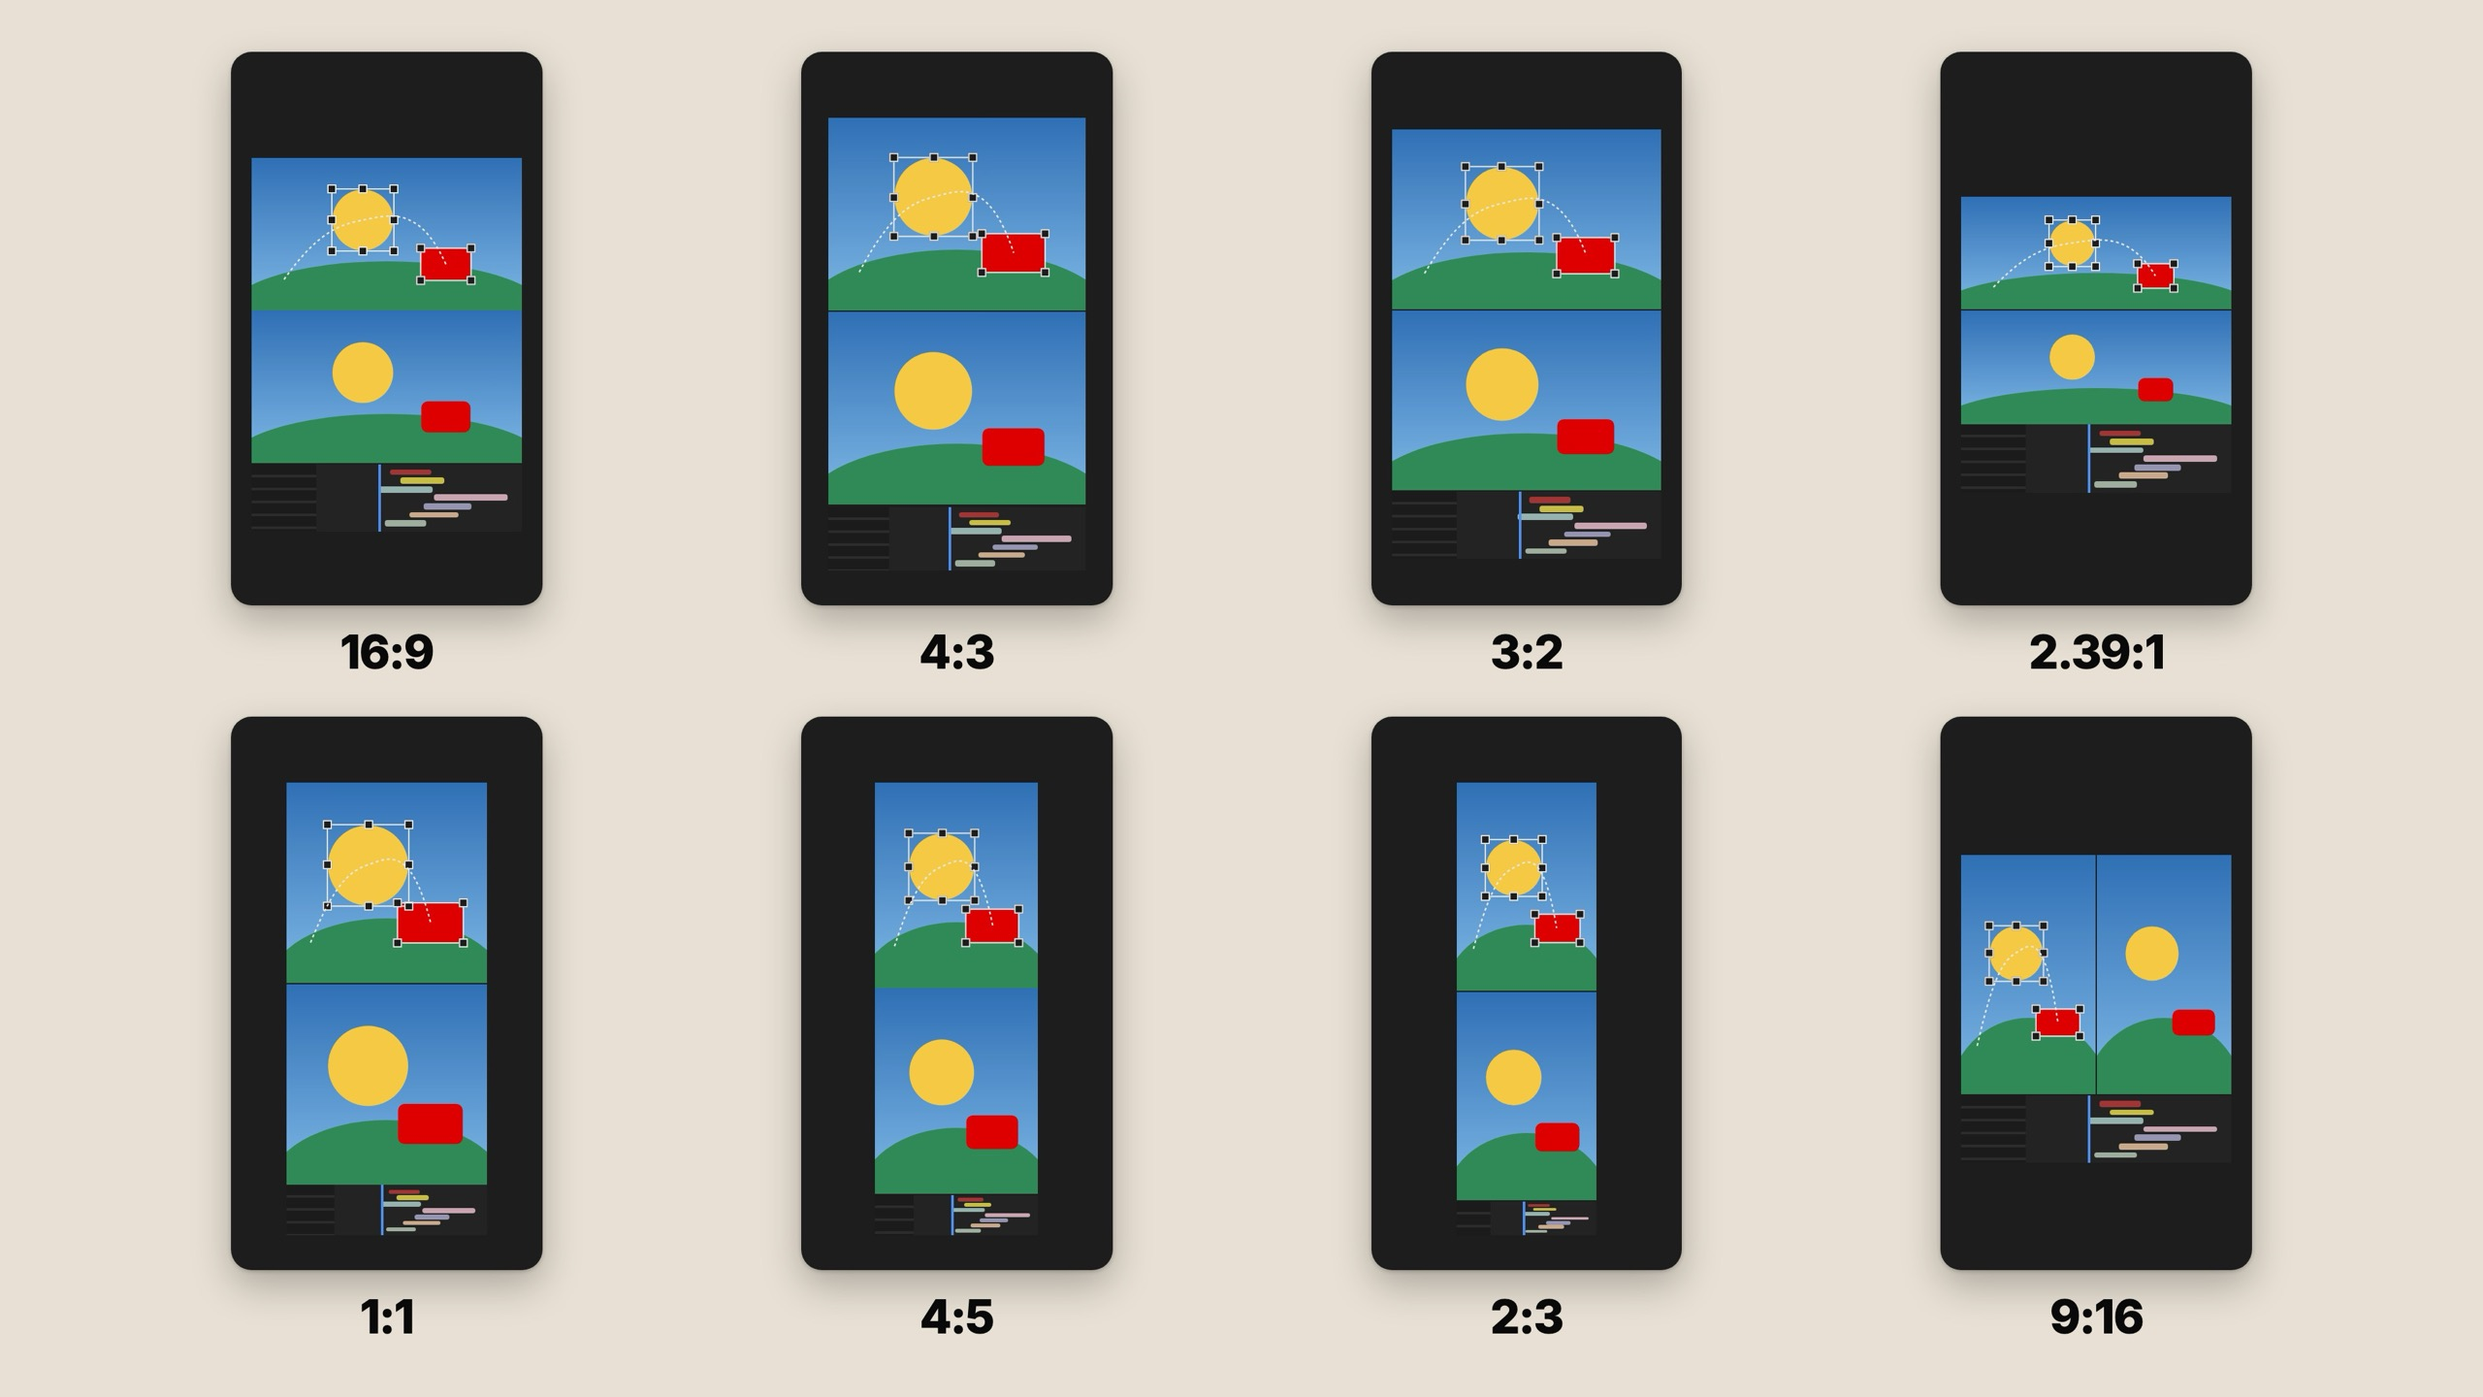
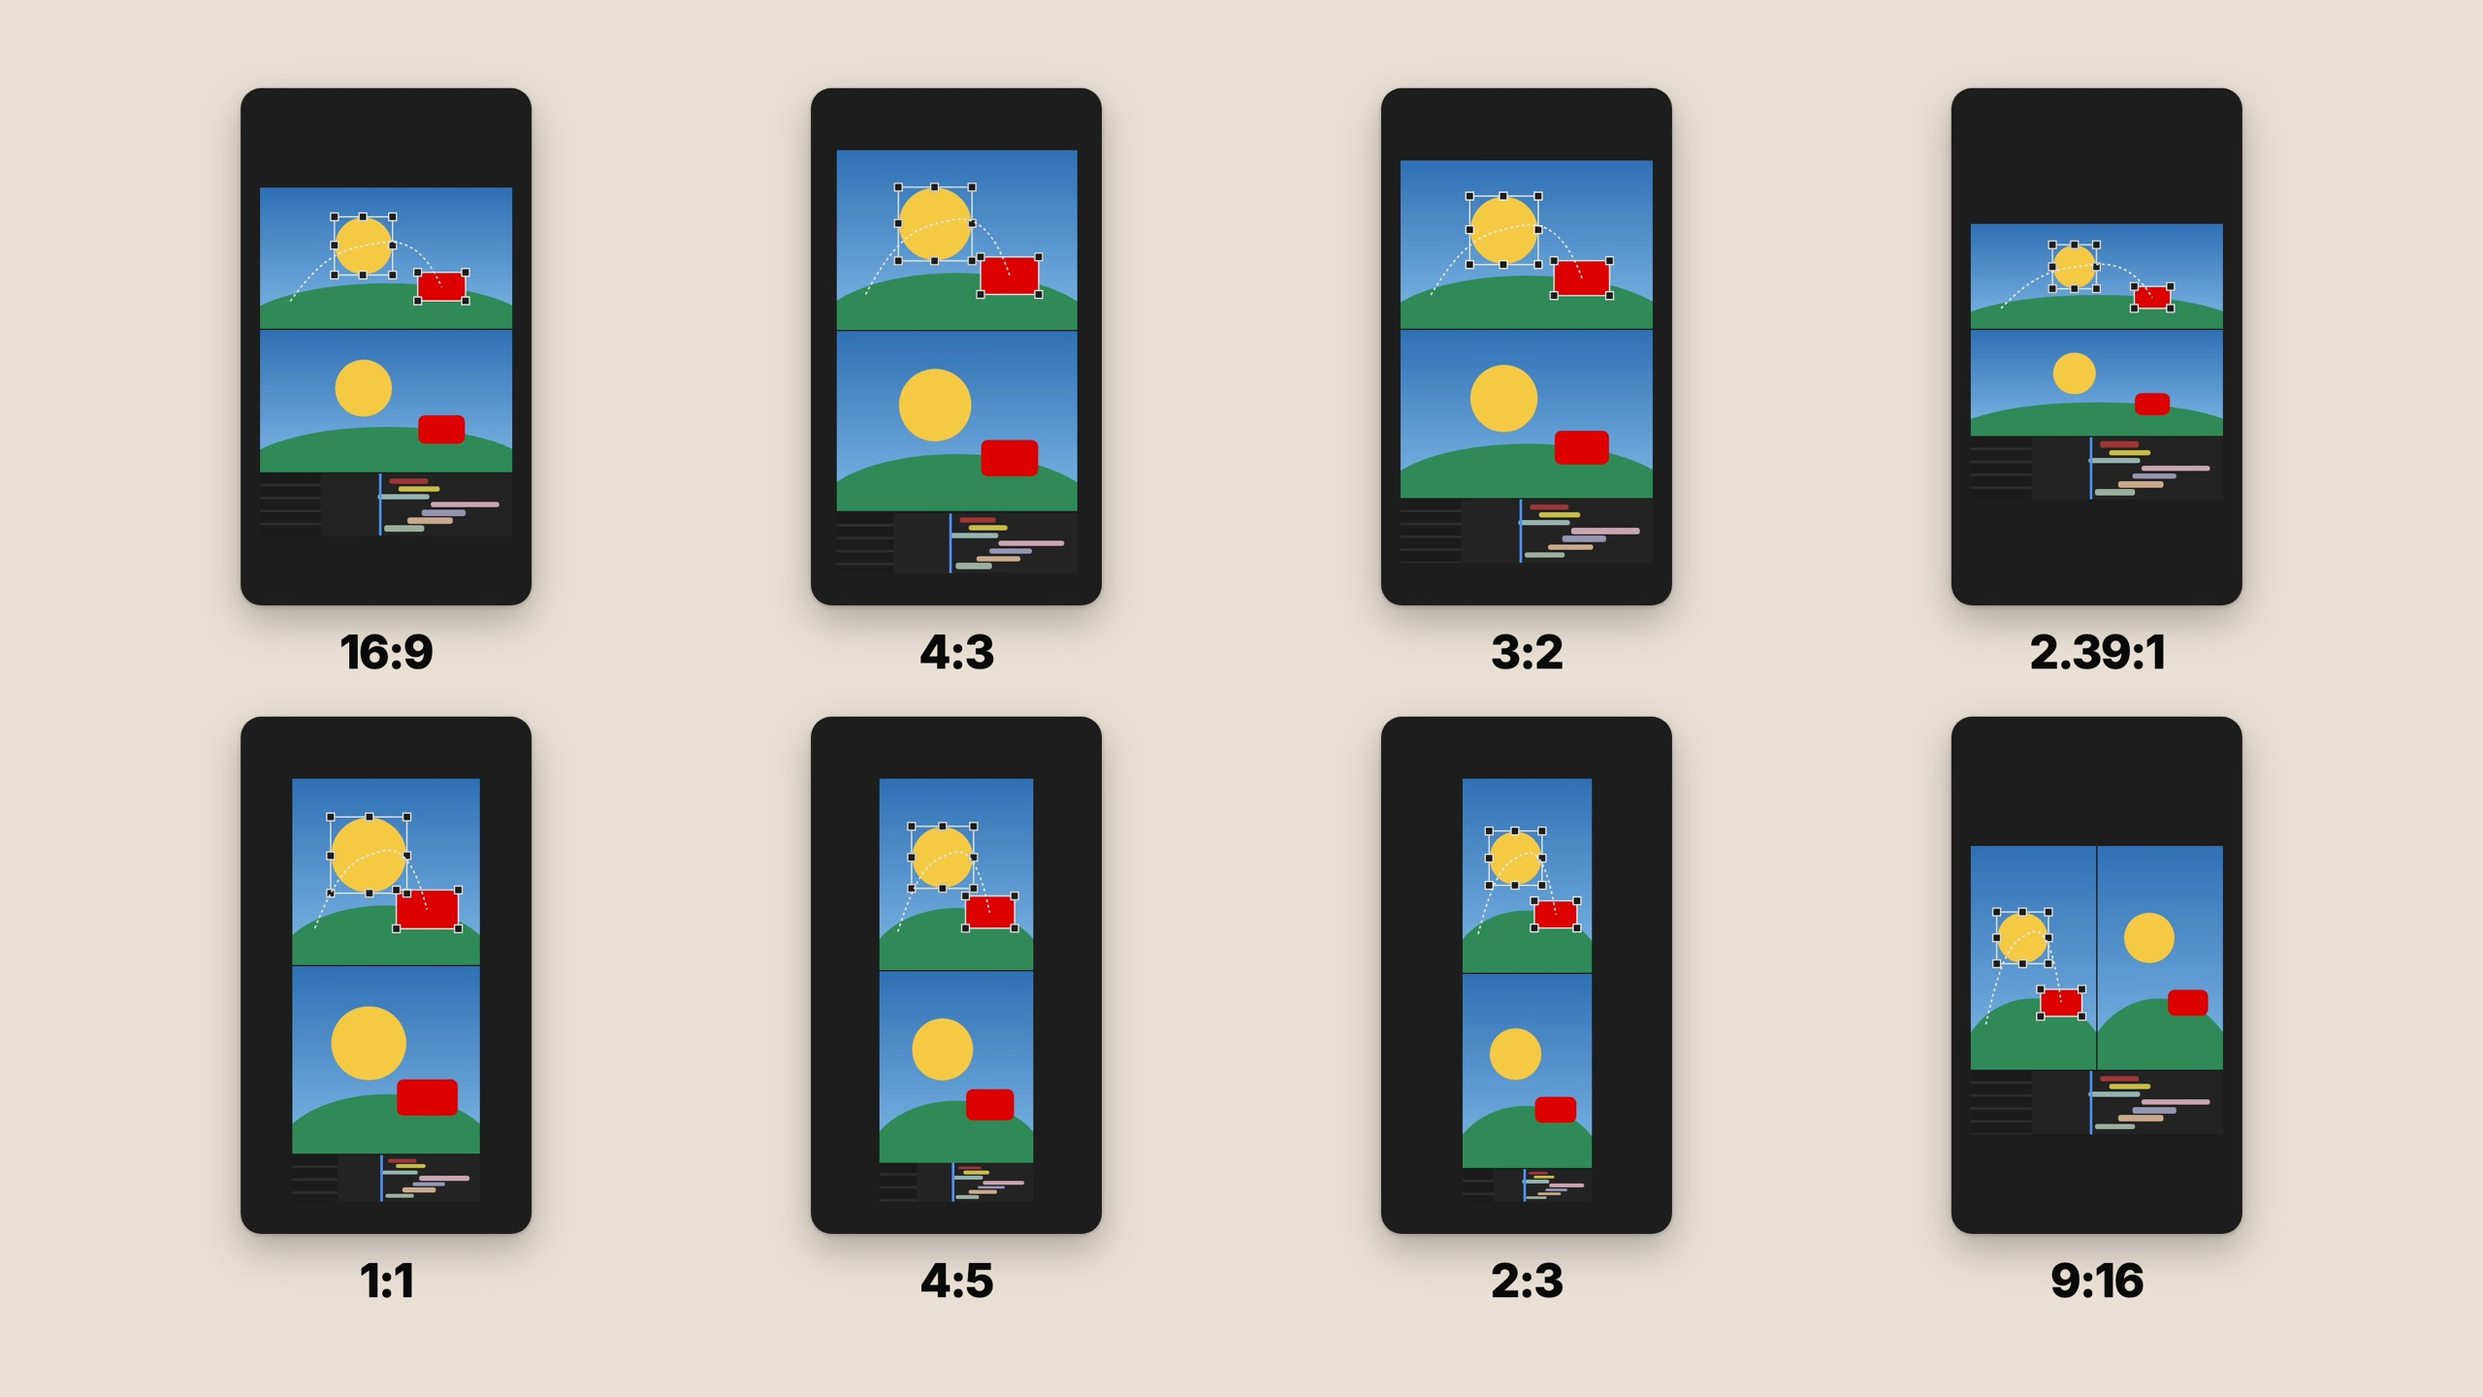
Receipts ratios still: a touch smaller, more room top and bottom

diff --git a/bodyarmor-powerade.html b/bodyarmor-powerade.html
@@ -19,7 +19,7 @@
 <link rel="preconnect" href="https://fonts.googleapis.com">
 <link rel="preconnect" href="https://fonts.gstatic.com" crossorigin>
 <link href="https://fonts.googleapis.com/css2?family=Inter:ital,wght@0,300..700;1,300..700&display=swap" rel="stylesheet">
-<link rel="stylesheet" href="assets/css/site.css?v=403">
+<link rel="stylesheet" href="assets/css/site.css?v=404">
 <style>
   /* First paint: the header (logo + menu) stays put from page to page; the
      project itself builds top down (site.css, .project load-in). */
@@ -100,9 +100,9 @@
 </footer>
 
 <script>window.PROJECT_SLUG = "bodyarmor-powerade";</script>
-<script src="assets/js/projects.js?v=403"></script>
-<script src="assets/js/project-page.js?v=403"></script>
-<script src="assets/js/site.js?v=403"></script>
+<script src="assets/js/projects.js?v=404"></script>
+<script src="assets/js/project-page.js?v=404"></script>
+<script src="assets/js/site.js?v=404"></script>
 <!-- GoatCounter: page views, no cookies. Skips itself on localhost. -->
 <script data-goatcounter="https://michaelloya.goatcounter.com/count" async src="https://gc.zgo.at/count.js"></script>
 </body>

diff --git a/university-union.html b/university-union.html
@@ -19,7 +19,7 @@
 <link rel="preconnect" href="https://fonts.googleapis.com">
 <link rel="preconnect" href="https://fonts.gstatic.com" crossorigin>
 <link href="https://fonts.googleapis.com/css2?family=Inter:ital,wght@0,300..700;1,300..700&display=swap" rel="stylesheet">
-<link rel="stylesheet" href="assets/css/site.css?v=403">
+<link rel="stylesheet" href="assets/css/site.css?v=404">
 <style>
   /* First paint: the header (logo + menu) stays put from page to page; the
      project itself builds top down (site.css, .project load-in). */
@@ -100,9 +100,9 @@
 </footer>
 
 <script>window.PROJECT_SLUG = "university-union";</script>
-<script src="assets/js/projects.js?v=403"></script>
-<script src="assets/js/project-page.js?v=403"></script>
-<script src="assets/js/site.js?v=403"></script>
+<script src="assets/js/projects.js?v=404"></script>
+<script src="assets/js/project-page.js?v=404"></script>
+<script src="assets/js/site.js?v=404"></script>
 <!-- GoatCounter: page views, no cookies. Skips itself on localhost. -->
 <script data-goatcounter="https://michaelloya.goatcounter.com/count" async src="https://gc.zgo.at/count.js"></script>
 </body>

diff --git a/where-it-hurts.html b/where-it-hurts.html
@@ -19,7 +19,7 @@
 <link rel="preconnect" href="https://fonts.googleapis.com">
 <link rel="preconnect" href="https://fonts.gstatic.com" crossorigin>
 <link href="https://fonts.googleapis.com/css2?family=Inter:ital,wght@0,300..700;1,300..700&display=swap" rel="stylesheet">
-<link rel="stylesheet" href="assets/css/site.css?v=403">
+<link rel="stylesheet" href="assets/css/site.css?v=404">
 <style>
   /* First paint: the header (logo + menu) stays put from page to page; the
      project itself builds top down (site.css, .project load-in). */
@@ -100,9 +100,9 @@
 </footer>
 
 <script>window.PROJECT_SLUG = "where-it-hurts";</script>
-<script src="assets/js/projects.js?v=403"></script>
-<script src="assets/js/project-page.js?v=403"></script>
-<script src="assets/js/site.js?v=403"></script>
+<script src="assets/js/projects.js?v=404"></script>
+<script src="assets/js/project-page.js?v=404"></script>
+<script src="assets/js/site.js?v=404"></script>
 <!-- GoatCounter: page views, no cookies. Skips itself on localhost. -->
 <script data-goatcounter="https://michaelloya.goatcounter.com/count" async src="https://gc.zgo.at/count.js"></script>
 </body>

diff --git a/miscellaneous.html b/miscellaneous.html
@@ -19,7 +19,7 @@
 <link rel="preconnect" href="https://fonts.googleapis.com">
 <link rel="preconnect" href="https://fonts.gstatic.com" crossorigin>
 <link href="https://fonts.googleapis.com/css2?family=Inter:ital,wght@0,300..700;1,300..700&display=swap" rel="stylesheet">
-<link rel="stylesheet" href="assets/css/site.css?v=403">
+<link rel="stylesheet" href="assets/css/site.css?v=404">
 <style>
   /* First paint: the header (logo + menu) stays put from page to page; the
      project itself builds top down (site.css, .project load-in). */
@@ -100,9 +100,9 @@
 </footer>
 
 <script>window.PROJECT_SLUG = "miscellaneous";</script>
-<script src="assets/js/projects.js?v=403"></script>
-<script src="assets/js/project-page.js?v=403"></script>
-<script src="assets/js/site.js?v=403"></script>
+<script src="assets/js/projects.js?v=404"></script>
+<script src="assets/js/project-page.js?v=404"></script>
+<script src="assets/js/site.js?v=404"></script>
 <!-- GoatCounter: page views, no cookies. Skips itself on localhost. -->
 <script data-goatcounter="https://michaelloya.goatcounter.com/count" async src="https://gc.zgo.at/count.js"></script>
 </body>

diff --git a/album-covers.html b/album-covers.html
@@ -19,7 +19,7 @@
 <link rel="preconnect" href="https://fonts.googleapis.com">
 <link rel="preconnect" href="https://fonts.gstatic.com" crossorigin>
 <link href="https://fonts.googleapis.com/css2?family=Inter:ital,wght@0,300..700;1,300..700&display=swap" rel="stylesheet">
-<link rel="stylesheet" href="assets/css/site.css?v=403">
+<link rel="stylesheet" href="assets/css/site.css?v=404">
 <style>
   /* First paint: the header (logo + menu) stays put from page to page; the
      project itself builds top down (site.css, .project load-in). */
@@ -100,9 +100,9 @@
 </footer>
 
 <script>window.PROJECT_SLUG = "album-covers";</script>
-<script src="assets/js/projects.js?v=403"></script>
-<script src="assets/js/project-page.js?v=403"></script>
-<script src="assets/js/site.js?v=403"></script>
+<script src="assets/js/projects.js?v=404"></script>
+<script src="assets/js/project-page.js?v=404"></script>
+<script src="assets/js/site.js?v=404"></script>
 <!-- GoatCounter: page views, no cookies. Skips itself on localhost. -->
 <script data-goatcounter="https://michaelloya.goatcounter.com/count" async src="https://gc.zgo.at/count.js"></script>
 </body>

diff --git a/loya.html b/loya.html
@@ -19,7 +19,7 @@
 <link rel="preconnect" href="https://fonts.googleapis.com">
 <link rel="preconnect" href="https://fonts.gstatic.com" crossorigin>
 <link href="https://fonts.googleapis.com/css2?family=Inter:ital,wght@0,300..700;1,300..700&display=swap" rel="stylesheet">
-<link rel="stylesheet" href="assets/css/site.css?v=403">
+<link rel="stylesheet" href="assets/css/site.css?v=404">
 <style>
   /* First paint: the header (logo + menu) stays put from page to page; the
      project itself builds top down (site.css, .project load-in). */
@@ -100,9 +100,9 @@
 </footer>
 
 <script>window.PROJECT_SLUG = "loya";</script>
-<script src="assets/js/projects.js?v=403"></script>
-<script src="assets/js/project-page.js?v=403"></script>
-<script src="assets/js/site.js?v=403"></script>
+<script src="assets/js/projects.js?v=404"></script>
+<script src="assets/js/project-page.js?v=404"></script>
+<script src="assets/js/site.js?v=404"></script>
 <!-- GoatCounter: page views, no cookies. Skips itself on localhost. -->
 <script data-goatcounter="https://michaelloya.goatcounter.com/count" async src="https://gc.zgo.at/count.js"></script>
 </body>

diff --git a/assets/js/plugins.js b/assets/js/plugins.js
@@ -156,7 +156,7 @@ const plugins = [
     /* a 16:9 still of what Receipts lays out for different comp shapes: the Stack look's real boxes
        (lib/compose.js plan) for eight comp shapes, two rows of four, drawn as shapes
        (receipts repo tools/promo/ratios/) */
-    wide: { src: 'projects/plugins/receipts-ratios.jpg?v=3', alt: 'The 9:16 video Receipts lays out for 16:9, 4:3, 3:2, 2.39:1, 1:1, 4:5, 2:3 and 9:16 comps' },
+    wide: { src: 'projects/plugins/receipts-ratios.jpg?v=4', alt: 'The 9:16 video Receipts lays out for 16:9, 4:3, 3:2, 2.39:1, 1:1, 4:5, 2:3 and 9:16 comps' },
     intro: `<p>Hit Generate and Receipts steps through your comp one frame at a time, screenshots the real viewer with every handle, path and gizmo After Effects draws, shoots the whole timeline, renders the comp, and builds a finished 4K 9:16 process video. No screen recording, no cropping in Premiere.</p>
 <p>It finds the viewer and the timeline on its own and fits the comp in the viewer, then puts your zoom, playhead and selection back when it's done. Preview shows one frame in every look before you commit.</p>`,
     features: [

diff --git a/clippings.html b/clippings.html
@@ -18,7 +18,7 @@
 
 <link rel="preconnect" href="https://fonts.googleapis.com">
 <link rel="preconnect" href="https://fonts.gstatic.com" crossorigin>
-<link rel="stylesheet" href="assets/css/site.css?v=403">
+<link rel="stylesheet" href="assets/css/site.css?v=404">
 <style>
   /* First-paint guard. Applies before anything else resolves, so the page
      never flashes raw content before the load-in animations start.
@@ -101,10 +101,10 @@
 </footer>
 
 <script>window.PLUGIN_SLUG = "clippings";</script>
-<script src="assets/js/plugins.js?v=403"></script>
-<script src="assets/js/panel-demos.js?v=403"></script>
-<script src="assets/js/plugin-page.js?v=403"></script>
-<script src="assets/js/site.js?v=403"></script>
+<script src="assets/js/plugins.js?v=404"></script>
+<script src="assets/js/panel-demos.js?v=404"></script>
+<script src="assets/js/plugin-page.js?v=404"></script>
+<script src="assets/js/site.js?v=404"></script>
 <!-- GoatCounter: page views, no cookies. Skips itself on localhost. -->
 <script data-goatcounter="https://michaelloya.goatcounter.com/count" async src="https://gc.zgo.at/count.js"></script>
 </body>

diff --git a/receipts.html b/receipts.html
@@ -18,7 +18,7 @@
 
 <link rel="preconnect" href="https://fonts.googleapis.com">
 <link rel="preconnect" href="https://fonts.gstatic.com" crossorigin>
-<link rel="stylesheet" href="assets/css/site.css?v=403">
+<link rel="stylesheet" href="assets/css/site.css?v=404">
 <style>
   /* First-paint guard. Applies before anything else resolves, so the page
      never flashes raw content before the load-in animations start.
@@ -101,10 +101,10 @@
 </footer>
 
 <script>window.PLUGIN_SLUG = "receipts";</script>
-<script src="assets/js/plugins.js?v=403"></script>
-<script src="assets/js/panel-demos.js?v=403"></script>
-<script src="assets/js/plugin-page.js?v=403"></script>
-<script src="assets/js/site.js?v=403"></script>
+<script src="assets/js/plugins.js?v=404"></script>
+<script src="assets/js/panel-demos.js?v=404"></script>
+<script src="assets/js/plugin-page.js?v=404"></script>
+<script src="assets/js/site.js?v=404"></script>
 <!-- GoatCounter: page views, no cookies. Skips itself on localhost. -->
 <script data-goatcounter="https://michaelloya.goatcounter.com/count" async src="https://gc.zgo.at/count.js"></script>
 </body>

diff --git a/index.html b/index.html
@@ -19,7 +19,7 @@
 <link rel="preconnect" href="https://fonts.googleapis.com">
 <link rel="preconnect" href="https://fonts.gstatic.com" crossorigin>
 <link rel="stylesheet" href="https://use.typekit.net/oft2xxg.css">
-<link rel="stylesheet" href="assets/css/site.css?v=403">
+<link rel="stylesheet" href="assets/css/site.css?v=404">
 <style>
   /* First-paint guard. Applies before anything else resolves, so the page
      never flashes raw content before the load-in animations start.
@@ -127,9 +127,9 @@
 </footer>
 
 <!-- ══ PROJECT DETAIL ══ -->
-<script src="assets/js/projects.js?v=403"></script>
-<script src="assets/js/hero.js?v=403"></script>
-<script src="assets/js/site.js?v=403"></script>
+<script src="assets/js/projects.js?v=404"></script>
+<script src="assets/js/hero.js?v=404"></script>
+<script src="assets/js/site.js?v=404"></script>
 <!-- GoatCounter: page views, no cookies. Skips itself on localhost. -->
 <script data-goatcounter="https://michaelloya.goatcounter.com/count" async src="https://gc.zgo.at/count.js"></script>
 </body>

diff --git a/gh-midi.html b/gh-midi.html
@@ -18,7 +18,7 @@
 
 <link rel="preconnect" href="https://fonts.googleapis.com">
 <link rel="preconnect" href="https://fonts.gstatic.com" crossorigin>
-<link rel="stylesheet" href="assets/css/site.css?v=403">
+<link rel="stylesheet" href="assets/css/site.css?v=404">
 <style>
   /* First-paint guard. Applies before anything else resolves, so the page
      never flashes raw content before the load-in animations start.
@@ -101,9 +101,9 @@
 </footer>
 
 <script>window.PLUGIN_SLUG = "gh-midi";</script>
-<script src="assets/js/plugins.js?v=403"></script>
-<script src="assets/js/plugin-page.js?v=403"></script>
-<script src="assets/js/site.js?v=403"></script>
+<script src="assets/js/plugins.js?v=404"></script>
+<script src="assets/js/plugin-page.js?v=404"></script>
+<script src="assets/js/site.js?v=404"></script>
 <!-- GoatCounter: page views, no cookies. Skips itself on localhost. -->
 <script data-goatcounter="https://michaelloya.goatcounter.com/count" async src="https://gc.zgo.at/count.js"></script>
 </body>

diff --git a/all.html b/all.html
@@ -18,7 +18,7 @@
 
 <link rel="preconnect" href="https://fonts.googleapis.com">
 <link rel="preconnect" href="https://fonts.gstatic.com" crossorigin>
-<link rel="stylesheet" href="assets/css/site.css?v=403">
+<link rel="stylesheet" href="assets/css/site.css?v=404">
 <style>
   /* First-paint guard. Applies before anything else resolves, so the page
      never flashes raw content before the load-in animations start.
@@ -97,9 +97,9 @@
   </div>
 </footer>
 
-<script src="assets/js/projects.js?v=403"></script>
-<script src="assets/js/plugins.js?v=403"></script>
-<script src="assets/js/site.js?v=403"></script>
+<script src="assets/js/projects.js?v=404"></script>
+<script src="assets/js/plugins.js?v=404"></script>
+<script src="assets/js/site.js?v=404"></script>
 <!-- GoatCounter: page views, no cookies. Skips itself on localhost. -->
 <script data-goatcounter="https://michaelloya.goatcounter.com/count" async src="https://gc.zgo.at/count.js"></script>
 </body>
